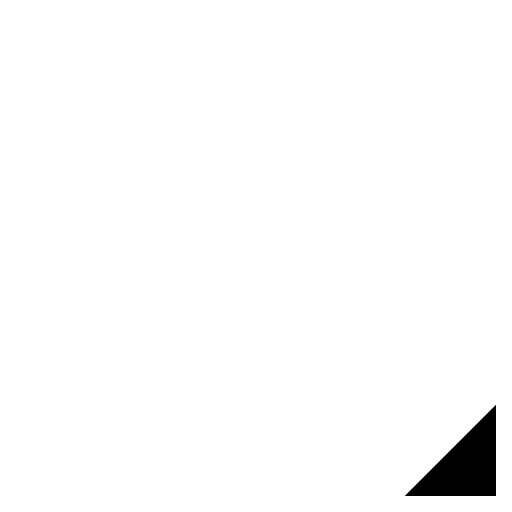
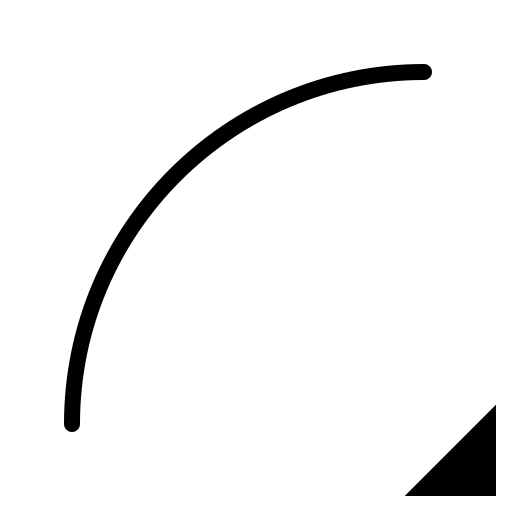
Render with show room style bubble

Changed region(s): [[0.125, 0.125, 0.8438, 0.8438]]

diff --git a/src/client/app/game/game.js b/src/client/app/game/game.js
@@ -6,7 +6,7 @@ var createGame = () => {
     game.load.image('car', './assets/car-top-view-small.png');
     game.load.image('panda', './assets/panda.png');
     game.load.image('grass', './assets/grass.jpg');
-    game.load.image('sensor', './assets/circle.svg')
+    game.load.image('sensor', './assets/round.png')
   }
 
   var car;
@@ -21,8 +21,8 @@ var createGame = () => {
     game.stage.backgroundColor = '#3e5f96';
 
     // Add sprites
-    car = game.add.sprite(400, 300, 'car');
     sensor = game.add.sprite(200, 300, 'sensor');
+    car = game.add.sprite(400, 300, 'car');
 
     car.anchor.setTo(0.3, 0.5);
     sensor.anchor.setTo(.5, .5);
